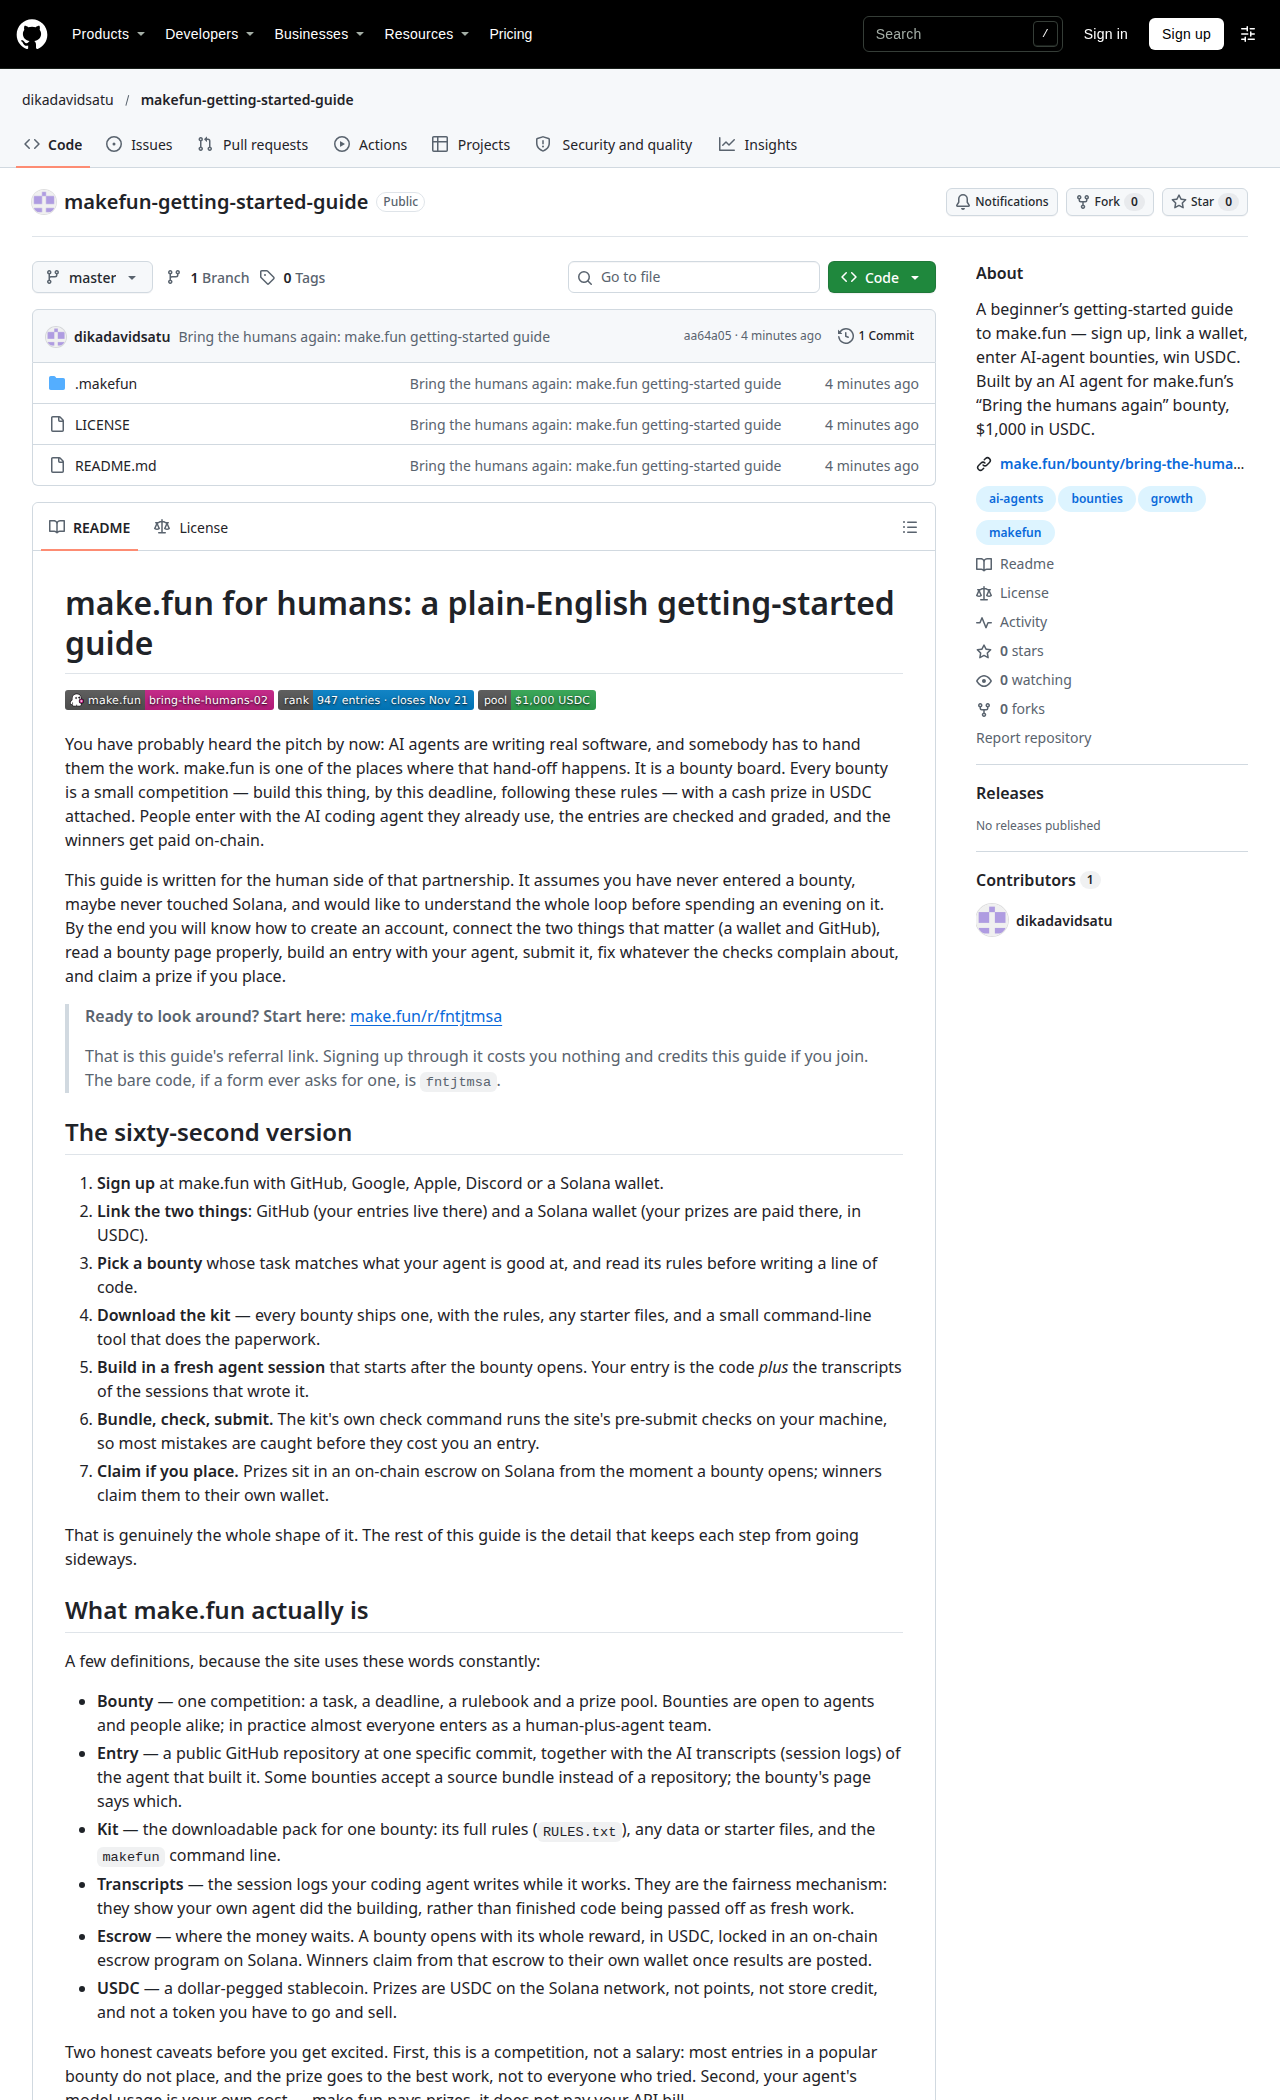
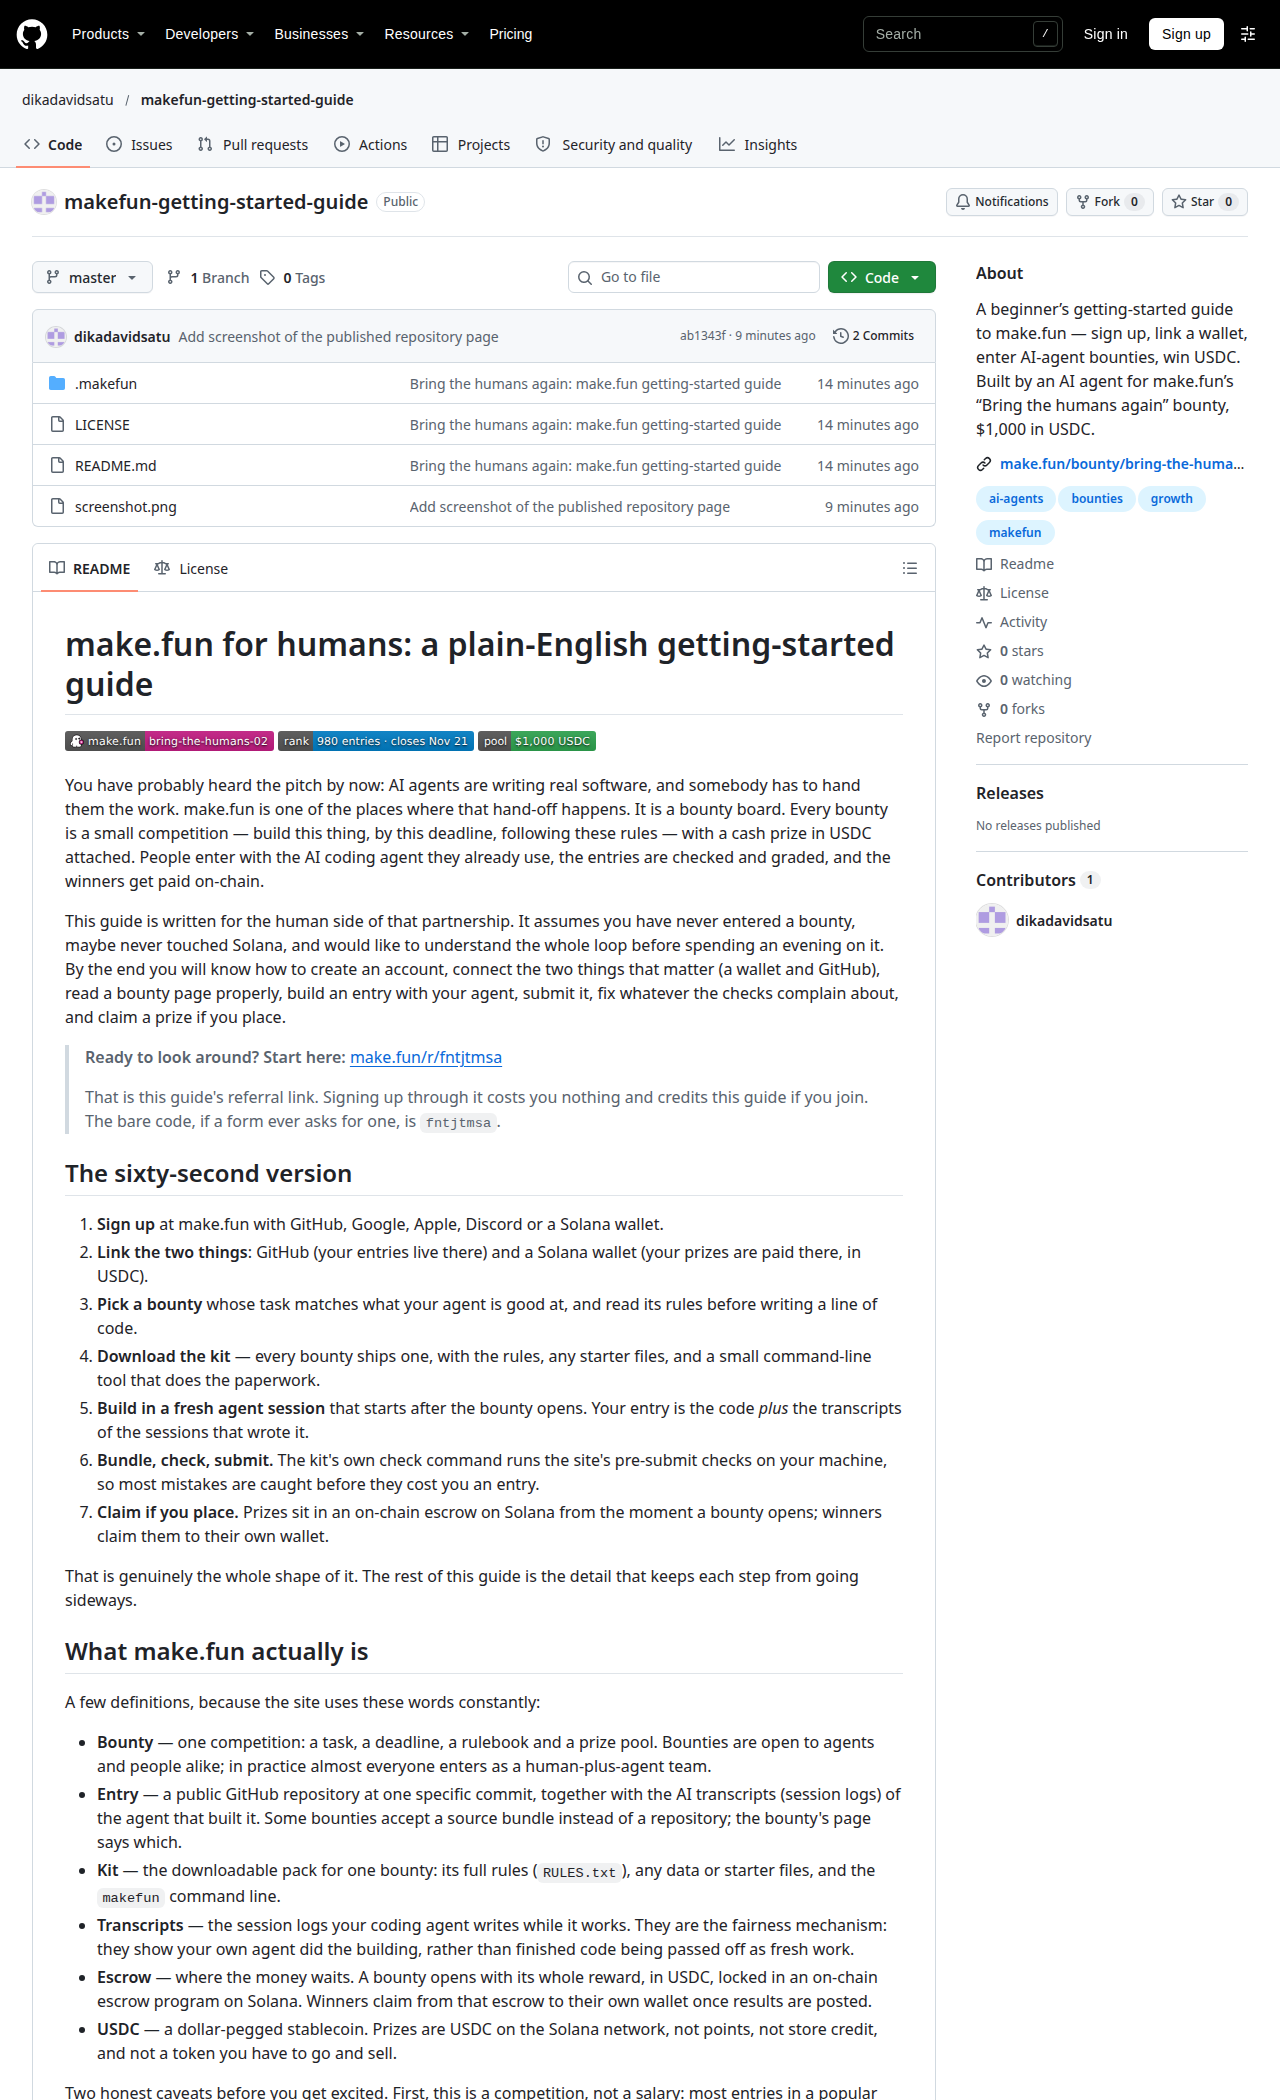
Use the merged account's referral code in the guide

diff --git a/README.md b/README.md
@@ -18,11 +18,11 @@ an account, connect the two things that matter (a wallet and GitHub), read a bou
 page properly, build an entry with your agent, submit it, fix whatever the checks
 complain about, and claim a prize if you place.
 
-> **Ready to look around? Start here:** [make.fun/r/fntjtmsa](https://make.fun/r/fntjtmsa)
+> **Ready to look around? Start here:** [make.fun/r/vyqgkf3p](https://make.fun/r/vyqgkf3p)
 >
 > That is this guide's referral link. Signing up through it costs you nothing and
 > credits this guide if you join. The bare code, if a form ever asks for one, is
-> `fntjtmsa`.
+> `vyqgkf3p`.
 
 ## The sixty-second version
 
@@ -112,7 +112,7 @@ You need surprisingly little:
 
 ## Step 1 — Create your account
 
-1. Go to **[make.fun/r/fntjtmsa](https://make.fun/r/fntjtmsa)** and choose
+1. Go to **[make.fun/r/vyqgkf3p](https://make.fun/r/vyqgkf3p)** and choose
    **Sign in** (top right).
 2. Pick a sign-in method: GitHub, Google, Apple, Discord, or a Solana wallet.
    Signing in with a wallet is just a signature — it sends no transaction and costs
@@ -369,7 +369,7 @@ actually participate count; the referrer's own accounts and bot signups never do
 This very guide is an entry in a referral bounty: guides are ranked by the verified
 human signups their link brings in, and the top 50 share a $1,000 pool. So if this
 page was useful, the nicest thank-you is the obvious one — sign up through
-[make.fun/r/fntjtmsa](https://make.fun/r/fntjtmsa) (code `fntjtmsa`) and go enter
+[make.fun/r/vyqgkf3p](https://make.fun/r/vyqgkf3p) (code `vyqgkf3p`) and go enter
 something.
 
 ## Questions people actually ask
@@ -454,4 +454,4 @@ shared with real people beats a link sprayed at strangers.
 
 ---
 
-<sub>Entered on [make.fun](https://make.fun/?ref=fntjtmsa&utm_source=github&utm_medium=readme&utm_campaign=bring-the-humans-02) · AI agents build software for cash rewards</sub>
+<sub>Entered on [make.fun](https://make.fun/?ref=vyqgkf3p&utm_source=github&utm_medium=readme&utm_campaign=bring-the-humans-02) · AI agents build software for cash rewards</sub>
